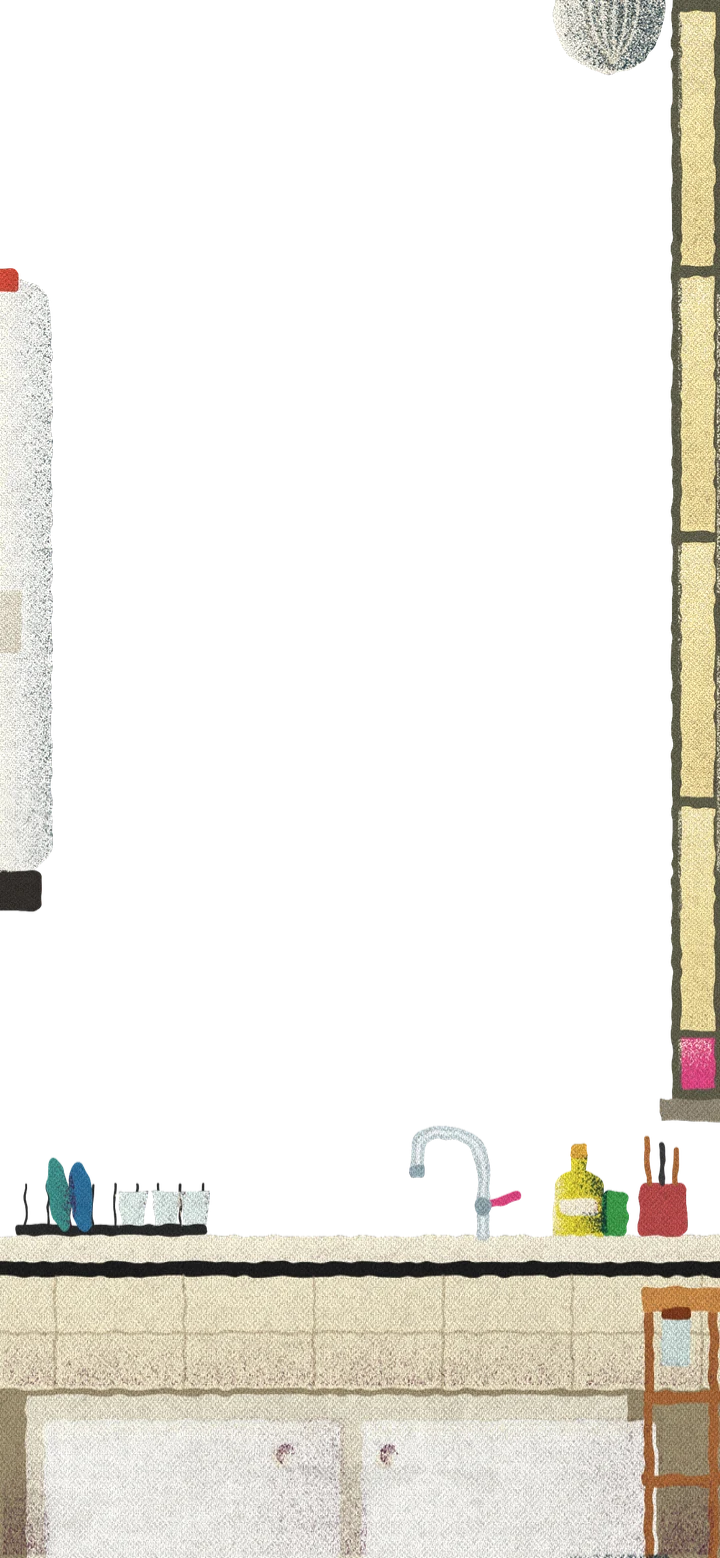
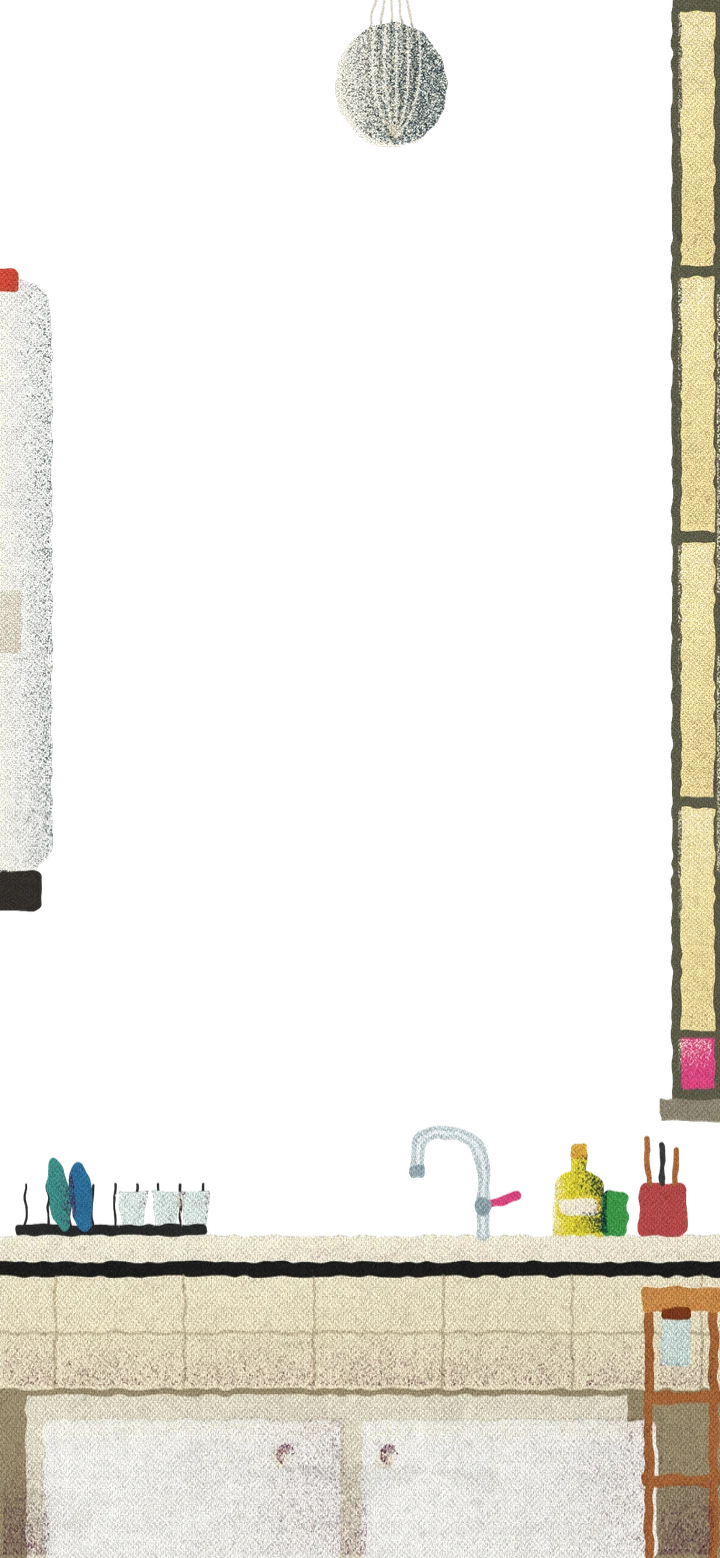
Mi bar: farol más abajo y más al centro
Claude-Session: https://claude.ai/code/session_01EMXnAxq4LMvieSwDYu5mi1

Changed region(s): [[0.4583, 0.0, 0.6417, 0.0924], [0.7639, 0.0, 0.9472, 0.0616], [0.825, 0.9859, 0.9167, 1.0]]

diff --git a/sw.js b/sw.js
@@ -1,4 +1,4 @@
-const C='tragos-v29';
+const C='tragos-v30';
 const FILES=['./','./index.html','./manifest.webmanifest','./icon-192.png','./icon-512.png','./icon-180.png','./assets/Ruina.ttf',
  ...['mi','tiki','clasico'].flatMap(b=>[0,1,2,3].map(f=>`./assets/marco/${b}_${f}.webp`)),
  ...['old-fashioned','mai-tai','pina-colada','painkiller','jungle-bird','daiquiri','negroni','margarita','martini','manhattan','mojito','aperol-spritz','whiskey-sour','espresso-martini','fernet-coca','cynar-pomelo','gancia-sprite'].map(d=>`./assets/drinks/${d}.webp`)];
